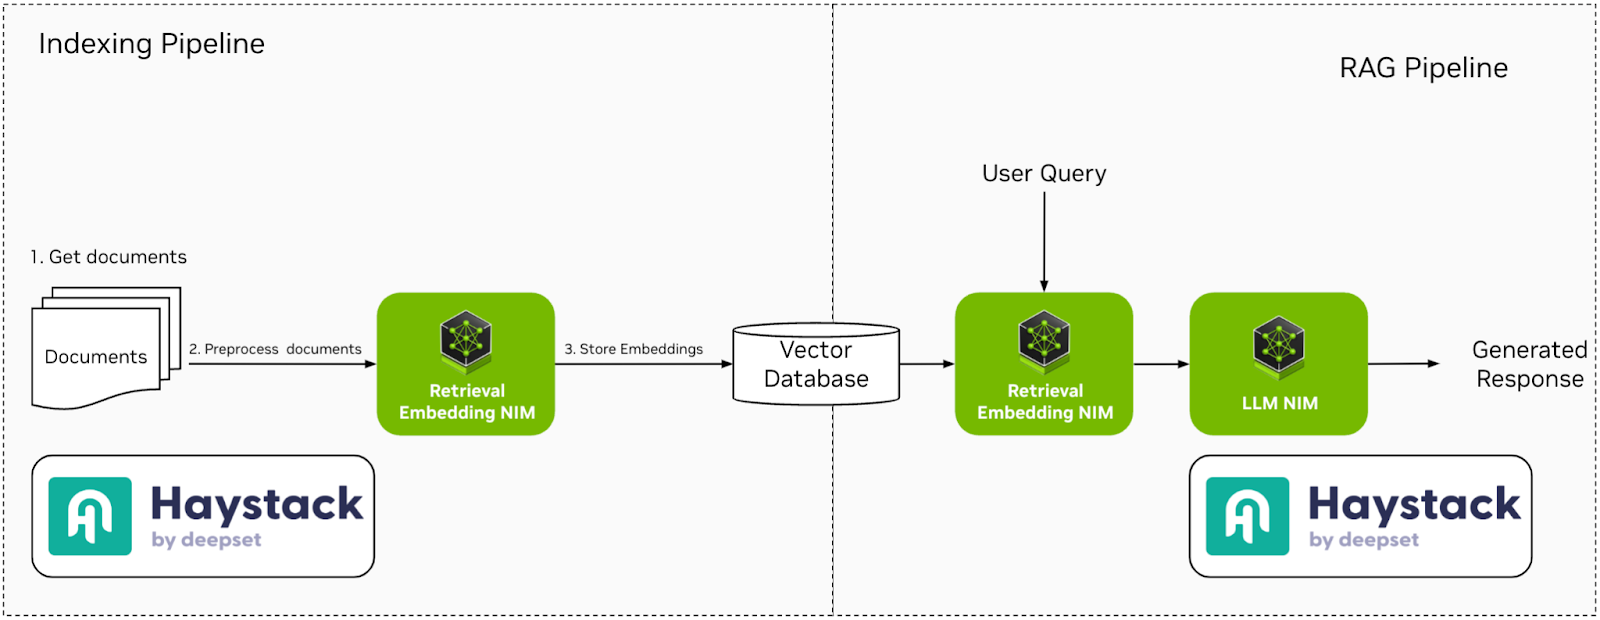
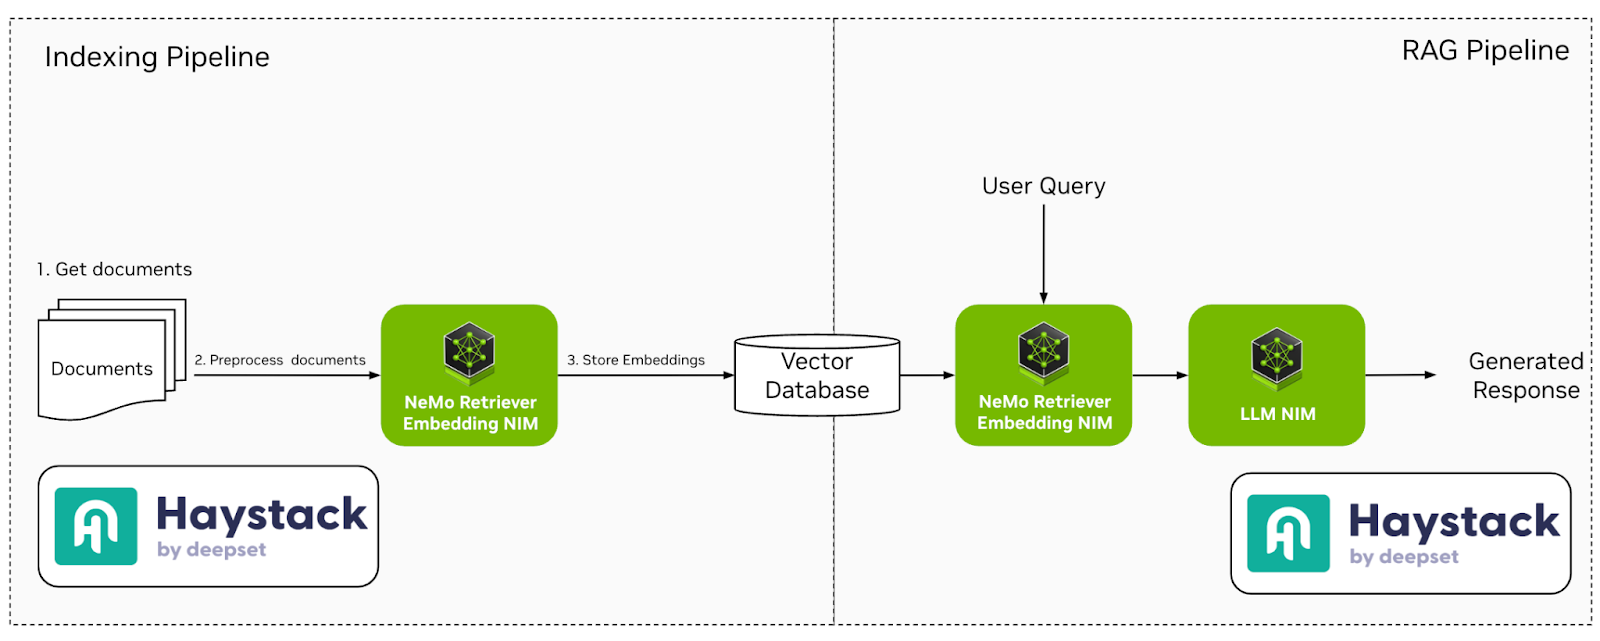
apply Anshul's changes

diff --git a/content/blog/haystack-nvidia-nim-rag-guide/index.md b/content/blog/haystack-nvidia-nim-rag-guide/index.md
@@ -1,10 +1,10 @@
 ---
 layout: single
-title: Building RAG Applications with NVIDIA NIM Inference Microservices and Haystack on K8s 
-description: "See how to self-host and deploy models with Nvidia NIMs alongside Haystack RAG pipelines. Deploy and orchestrate with Kubernetes."
+title: Building RAG Applications with NVIDIA NIM and Haystack on K8s
+description: "How to self-host and orchestrate NVIDIA NIM for Haystack RAG pipelines in Kubernetes."
 images: ["blog/haystack-nvidia-nim-rag-guide/nvidia-image-2.png"]
-featured_image_caption: Diagram of a RAG pipeline connecting NVIDIA retrieval and LLM NIMs with Haystack
-alt_image: Diagram of a RAG pipeline connecting NVIDIA retrieval and LLM NIMs with Haystack
+featured_image_caption: Diagram of a RAG pipeline connecting NVIDIA NeMo Retriever Embedding NIM and LLM NIM with Haystack
+alt_image: Diagram of a RAG pipeline connecting NVIDIA NeMo Retriever Embedding NIM and LLM NIM with Haystack
 toc: True
 date: 2024-06-01
 last_updated:  2024-06-01
@@ -33,18 +33,17 @@ NVIDIA NIM is a collection of containerized microservices designed for optimized
 ## Build a Haystack RAG pipeline with NVIDIA NIM
 
 For RAG pipelines, Haystack provides 3 components that can be connected with NVIDIA NIM: 
-- [NvidiaGenerator](https://docs.haystack.deepset.ai/docs/nvidiagenerator): Text generation with self-deployed LLM NIM.
-- [NvidiaDocumentEmbedder](https://docs.haystack.deepset.ai/docs/nvidiadocumentembedder): Document embedding with self-deployed NVIDIA NeMo
-- [Embedding NIM](https://build.nvidia.com/nvidia/embed-qa-4) to be stored in vector stores.
-- [NvidiaTextEmbedder](https://docs.haystack.deepset.ai/docs/nvidiatextembedder): Query embedding with self-deployed NeMo Retriever embedding NIM.
+- [NvidiaGenerator](https://docs.haystack.deepset.ai/docs/nvidiagenerator): Text generation with LLM NIM.
+- [NvidiaDocumentEmbedder](https://docs.haystack.deepset.ai/docs/nvidiadocumentembedder): Document embedding with [NVIDIA NeMo Retriever Embedding NIM](https://build.nvidia.com/nvidia/embed-qa-4).
+- [NvidiaTextEmbedder](https://docs.haystack.deepset.ai/docs/nvidiatextembedder): Query embedding with  NVIDIA NeMo Retriever Embedding NIM.
 
-![Fig. 1 - Haystack Indexing and RAG pipelines with self-deployed NVIDIA NIM](nvidia-image-2.png#small "_Fig. 1 - Haystack Indexing and RAG pipelines with self-deployed NVIDIA NIM_") 
+![Fig. 1 -  Haystack Indexing and RAG pipelines with self-hosted NVIDIA NIM](nvidia-image-2.png#small "_Fig. 1 - Haystack Indexing and RAG pipelines with self-hosted NVIDIA NIM_") 
 
-For this section, we have provided scripts and instructions for building a RAG pipeline with models hosted by NVIDIA (so you can start even if you do not have access to the `rag-with-nvidia-nims` [GitHub repository](https://github.com/deepset-ai/nvidia-haystack). A [self-hosted notebook](https://colab.research.google.com/github/deepset-ai/haystack-cookbook/blob/main/notebooks/rag-with-nims.ipynb) is provided for the same pipeline using self-hosted NIMs. 
+For this section, we have provided scripts and instructions for building a RAG pipeline with NVIDIA-hosted NIM as part of the [GitHub repository](https://github.com/deepset-ai/nvidia-haystack). We also provide a [Jupyter Notebook](https://colab.research.google.com/github/deepset-ai/haystack-cookbook/blob/main/notebooks/rag-with-nims.ipynb) for building the same RAG pipeline using self-hosted NVIDIA NIM. 
 
 ## Vectorize Documents with Haystack Indexing Pipelines
 
-Our indexing pipeline implementation is available in the [indexing tutorial](https://github.com/deepset-ai/nvidia-haystack/blob/main/indexing.py). Haystack provides several [preprocessing](https://docs.haystack.deepset.ai/docs/preprocessors) components for document cleaning, splitting, [embedders](https://docs.haystack.deepset.ai/docs/converters), as well as [converters](https://docs.haystack.deepset.ai/docs/converters) extracting data from files in different formats. In this tutorial, we will store PDF files in a `QdrantDocumentStore`. `NvidiaDocumentEmbedder` is used to connect with models hosted by NVIDIA accessible [here](https://build.nvidia.com/explore/retrieval). Below is an example of how to initialize the embedder component with the NVIDIA-hosted [`snowflake/arctic-embed-l`](https://build.nvidia.com/snowflake/arctic-embed-l) model.
+Our indexing pipeline implementation is available in the [indexing tutorial](https://github.com/deepset-ai/nvidia-haystack/blob/main/indexing.py). Haystack provides several [preprocessing](https://docs.haystack.deepset.ai/docs/preprocessors) components for document cleaning, splitting, [embedders](https://docs.haystack.deepset.ai/docs/converters), as well as [converters](https://docs.haystack.deepset.ai/docs/converters) extracting data from files in different formats. In this tutorial, we will store PDF files in a `QdrantDocumentStore`. `NvidiaDocumentEmbedder` is used to connect with NVIDIA-hosted NIM accessible [here](https://build.nvidia.com/explore/retrieval). Below is an example of how to initialize the embedder component with the NVIDIA-hosted [`snowflake/arctic-embed-l`](https://build.nvidia.com/snowflake/arctic-embed-l) NIM.
 
 ```python
 from haystack.utils.auth import Secret
@@ -58,7 +57,7 @@ embedder = NvidiaDocumentEmbedder(model="snowflake/arctic-embed-l",
 
 ## Creating the Haystack RAG Pipeline
 
-In our example, we will create a simple question/answering RAG pipeline using both Embedding Retrieval and LLM NIMs. For this pipeline, we use the NvidiaTextEmbedder to embed the query for retrieval, and the NvidiaGenerator to generate a response. An example is shown below for how to instantiate the generator using [`meta/llama3-70b-instruct` as an NVIDIA hosted LLM NIM](https://build.nvidia.com/meta/llama3-70b).
+In our example, we will create a simple question/answering RAG pipeline using both NVIDIA NeMo Retriever Embedding NIM and LLM NIM. For this pipeline, we use the NvidiaTextEmbedder to embed the query for retrieval, and the NvidiaGenerator to generate a response. Example below shows how to instantiate the generator using NVIDIA-hosted [`meta/llama3-70b-instruct`](https://build.nvidia.com/meta/llama3-70b) LLM NIM.
 
 ```python
 generator = NvidiaGenerator(
@@ -120,13 +119,13 @@ rag.connect("prompt", "generator")
 
 ## Indexing Files and Deploying the Haystack RAG Pipeline
 
-[Hayhooks](https://docs.haystack.deepset.ai/docs/hayhooks) allows the deployment of RAG pipelines in a containerized environment. In our example, we have provided [a docker-compose file](https://github.com/deepset-ai/nvidia-haystack/blob/main/docker-compose.yml) to set up both the Qdrant database, and the RAG pipeline. As we are using NVIDIA-hosted models, we need to set the API keys for the listed models on the .env file. The instructions below expect an `NVIDIA_API_KEY` (for `NvidiaGenerator`) and `NVIDIA_EMBEDDINGS_KEY` (for `NvidiaDocumentEmbedder` and `NvidiaTextEmbedder`). 
+[Hayhooks](https://docs.haystack.deepset.ai/docs/hayhooks) allows the deployment of RAG pipelines in a containerized environment. In our example, we have provided a [docker-compose file](https://github.com/deepset-ai/nvidia-haystack/blob/main/docker-compose.yml) to setup both the Qdrant database, and the RAG pipeline. As we are using NVIDIA-hosted NIM, we need to set the API keys for the NIM on the .env file. The instructions below expect `NVIDIA_API_KEY` (for `NvidiaGenerator`) and `NVIDIA_EMBEDDINGS_KEY` (for `NvidiaDocumentEmbedder` and `NvidiaTextEmbedder`). 
 
-Executing `docker-compose up` will launch 3 containers: **qdrant**, **hayhooks** and **qdrant-setup** (which will run our indexing pipeline and stop). The Qdrant database will be deployed on the localhost and exposed at port 6333. The Qdrant dashboard allows users to inspect the vectorized documents at **localhost:6333/dashboard**.
+Executing `docker-compose up` will launch `3` containers: **qdrant**, **hayhooks** and **qdrant-setup** (which will run our indexing pipeline and stop). The Qdrant database will be deployed on the localhost and exposed at port `6333`. The Qdrant dashboard allows users to inspect the vectorized documents at [localhost:6333/dashboard](localhost:6333/dashboard).
 
 ### Serializing Pipelines
 
-Haystack pipelines defined in Python can be serialized to YAML by calling **dump()** on the pipeline object, as shown in [our RAG pipeline tutorial](https://github.com/deepset-ai/nvidia-haystack/blob/77cc316193e718de51b8a56e756749604b8032e9/rag.py#L44C1-L45C16). The [YAML](https://github.com/deepset-ai/nvidia-haystack/blob/main/rag.yaml) definition is the following:
+Haystack pipelines defined in Python can be serialized to YAML by calling `dump()` on the pipeline object, as shown in our [RAG pipeline tutorial](https://github.com/deepset-ai/nvidia-haystack/blob/77cc316193e718de51b8a56e756749604b8032e9/rag.py#L44C1-L45C16). The [YAML](https://github.com/deepset-ai/nvidia-haystack/blob/main/rag.yaml) definition is the following:
 
 ```yaml
 components:
@@ -166,7 +165,7 @@ metadata: {}
 
 ### Deploy the RAG Pipeline
 
-To deploy the RAG pipeline, execute `hayhooks deploy rag.yaml` which will expose the pipeline on localhost:1416/rag by default. You can then visit http://localhost:1416/docs and try out your pipeline. 
+To deploy the RAG pipeline, execute `hayhooks deploy rag.yaml` which will expose the pipeline on [http://localhost:1416/rag](http://localhost:1416/rag) by default. You can then visit [http://localhost:1416/docs](http://localhost:1416/docs) for the API docs and try out the pipeline. 
 
 ![](nvidia-image-3.png) 
 
@@ -174,36 +173,34 @@ To deploy the RAG pipeline, execute `hayhooks deploy rag.yaml` which will expose
 
 For production, Haystack provides Helm charts and [instructions](https://docs.haystack.deepset.ai/docs/kubernetes) to create services running Hayhooks with a container orchestrator like Kubernetes. 
 
-In the next sections, we will show how to self deploy NVIDIA NIM on a Kubernetes cluster, monitor the application using the NIM microservice’s exposed metrics and autoscale the application according to predefined metrics. Finally, we will provide instructions on how to use the self-deployed NIM in the Haystack RAG pipeline. 
+In the next sections, we will show how to self deploy, monitor and autoscale the NVIDIA NIM on a Kubernetes cluster. Finally, we will provide instructions on how to use the self-hosted NIM in the Haystack RAG pipeline.
 
 ## Deployment of NVIDIA NIM on a Kubernetes Cluster
 
 ### Kubernetes Cluster Environment
 
-In this tutorial, the setup environment consists of a DGX H100 with 8 H100 GPUs each having 80GB of memory as GPU host and with Ubuntu as the operating system. Docker is used as the container engine. Kubernetes is deployed on it using [Minikube](https://minikube.sigs.k8s.io/). To enable GPU utilization in Kubernetes, we install essential NVIDIA software components using the [GPU Operator](https://docs.nvidia.com/datacenter/cloud-native/gpu-operator/latest/getting-started.html).
+In this tutorial, the setup environment consists of a DGX H100 with 8 H100 GPUs each having 80GB of memory as host and with Ubuntu as the operating system. Docker is used as the container runtime. Kubernetes is deployed on it using [Minikube](https://minikube.sigs.k8s.io/). To enable GPU utilization in Kubernetes, we install essential NVIDIA software components using the [GPU Operator](https://docs.nvidia.com/datacenter/cloud-native/gpu-operator/latest/getting-started.html).
 
 ### NVIDIA NIM Deployment
 
-As part of this setup, we deploy two NIMs into the Kubernetes cluster using Helm charts:
+As part of this setup, we deploy following NVIDIA NIM into the Kubernetes cluster using Helm charts:
 - The LLM NIM, which uses the model [`llama3-8b-instruct`](https://build.nvidia.com/meta/llama3-8b)
-- The NeMo Retriever Embedding NIM, which uses the model [`NV-Embed-QA`](https://build.nvidia.com/nvidia/embed-qa-4)
+- The NVIDIA NeMo Retriever Embedding NIM, which uses the model [`NV-Embed-QA`](https://build.nvidia.com/nvidia/embed-qa-4)
 
-The Helm chart for the LLM NIM is located in [GitHub](https://github.com/NVIDIA/nim-deploy) whereas the embedding NIM is located in the NGC private registry. For the embedding NIM, you would need EA access.  Figure 3 illustrates the deployment of NIM on a Kubernetes cluster running on a DGX H100. The GPU Operator components are deployed via its Helm chart and are part of the GPU Operator stack. Prometheus and Grafana are deployed via Helm charts for monitoring the Kubernetes cluster and the NIM.
+The Helm chart for the LLM NIM is located in [GitHub](https://github.com/NVIDIA/nim-deploy) whereas for the NVIDIA NeMo Retriever Embedding NIM it is located in the NGC private registry and at the moment need EA access [apply for Early Access](https://developer.nvidia.com/nemo-microservices).  Figure 3 illustrates the deployment of NIM on a Kubernetes cluster running on a DGX H100. The GPU Operator components are deployed via its Helm chart and are part of the GPU Operator stack. Prometheus and Grafana are deployed via Helm charts for monitoring the Kubernetes cluster and the NIM.
 
-![Figure 3 - NIM and  vector database deployment on a Kubernetes cluster ](nvidia-image-5.png#small "_Figure 3 - NIM and  vector database deployment on a Kubernetes cluster_") 
+![Figure 3 - NVIDIA NIM and  other components deployment on a Kubernetes cluster ](nvidia-image-5.png#small "_Figure 3 - NVIDIA NIM and  other components deployment on a Kubernetes cluster_") 
 
-The LLM NIM Helm chart contains the LLM NIM container, which runs within a pod and references the model on the host via [Persistent Volume](https://kubernetes.io/docs/concepts/storage/persistent-volumes/) (PV) and [Persistent Volume Claim](https://kubernetes.io/docs/concepts/storage/persistent-volumes/#persistentvolumeclaims) (PVC). The LLM NIM pods are autoscaled using the [Horizontal Pod Autoscaler](https://kubernetes.io/docs/tasks/run-application/horizontal-pod-autoscale/) (HPA) based on custom metrics and are exposed via Kubernetes [ClusterIP](https://kubernetes.io/docs/concepts/services-networking/service/#type-clusterip) service. To access the LLM NIM, we deploy an [ingress](https://kubernetes.io/docs/concepts/services-networking/ingress/) and expose it at the `/llm` endpoint.
+The LLM NIM Helm chart contains the LLM NIM container, which runs within a pod and references the model via [Persistent Volume](https://kubernetes.io/docs/concepts/storage/persistent-volumes/) (PV) and [Persistent Volume Claim](https://kubernetes.io/docs/concepts/storage/persistent-volumes/#persistentvolumeclaims) (PVC). The LLM NIM pods are autoscaled using the [Horizontal Pod Autoscaler](https://kubernetes.io/docs/tasks/run-application/horizontal-pod-autoscale/) (HPA) based on custom metrics and are exposed via Kubernetes [ClusterIP](https://kubernetes.io/docs/concepts/services-networking/service/#type-clusterip) service. To access the LLM NIM, we deploy an [ingress](https://kubernetes.io/docs/concepts/services-networking/ingress/) and expose it at the `/llm` endpoint.
 
-Similarly, the NeMo Retriever Embedding microservice Helm chart includes the Retrieval Embedding NIM container, which runs within a pod and references the model on the host via Persistent Volume and Persistent Volume Claim. The Retrieval Embedding NIM pods are also autoscaled via HPA and are exposed via Kubernetes ClusterIP service. To access the embedding NIM, we deploy an ingress and expose it at the `/embedding` endpoint.
+Similarly, the NeMo Retriever Embedding NIM Helm chart includes the Retriever Embedding NIM container, which runs within a pod and references the model on the host via PV and PVC. The NeMo Retriever Embedding NIM pods are also autoscaled via HPA and are exposed via Kubernetes ClusterIP service. To access the NeMo Retriever Embedding NIM, we deploy an ingress and expose it at the `/embedding` endpoint.
 
-Users and other applications can access the exposed NIMs via the ingress.
+Users and other applications can access the exposed NVIDIA NIM via the ingress.
 The vector database Qdrant is deployed using this [helm chart](https://qdrant.tech/documentation/guides/installation/#kubernetes).
 
 Now, let's take a closer look at the deployment process for each NIM: 
 
 ### LLM NIM deployment
-
-Let’s create a Kubernetes pod to run the NIM serving the LLM model. 
 
 1. Create the namespace, if it is not already created yet:
 
@@ -229,8 +226,8 @@ kubectl create secret -n nim-llm generic ngc-api \
 
 ```yaml
 image:
-   repository: "nvcr.io/nvidia/nim/nim-llm/meta-llama3-8b-instruct" # container location
-    tag: 24.05 # NIM version you want to deploy
+   repository: "nvcr.io/nvidia/nim/nim-llm/meta-llama3-8b-instruct" # container image location
+   tag: 24.05 # LLM NIM version you want to deploy
 
 model:
   ngcAPISecret: ngc-api  # name of a secret in the cluster that includes a key named NGC_CLI_API_KEY and is an NGC API key
@@ -246,7 +243,7 @@ imagePullSecrets:
   - name: nvcrimagepullsecret # secret created to pull nvcr.io image
 ```
 
-5. We assume that the helm chart for the LLM is located here: *"./nims/helm/nim-llm/".* You can change the command accordingly depending on where the helm chart is located.  Deploy the LLM NIM by running the following command:
+5. We assume that the helm chart for the LLM is located here: `./nims/helm/nim-llm/`. You can change the command accordingly depending on where the helm chart is located.  Deploy the LLM NIM by running the following command:
 
 ```helm -n nim-llm install nim-llm -f ./nims/helm/nim-llm/ nim-llm-values.yaml```
 
@@ -263,7 +260,7 @@ NAME        READY   STATUS    RESTARTS   AGE
 nim-llm-0   1/1     Running   0          8m21s
 ```
 
-7. Create a file `ingress-nim-llm.yaml` with the below content to create the ingress for the LLM NIM. Make sure to change the host (here nims.example.com) with your domain name. Make sure you have installed an [ingress controller](https://kubernetes.io/docs/concepts/services-networking/ingress-controllers/). 
+7. Install an [ingress controller](https://kubernetes.io/docs/concepts/services-networking/ingress-controllers/), if it has not been installed already. Then, create a file `ingress-nim-llm.yaml` with the below content to create the ingress for the LLM NIM. Make sure to change the host (here nims.example.com) with your fully qualified domain name. 
 
 ```yaml
 apiVersion: networking.k8s.io/v1
@@ -326,19 +323,19 @@ curl -X 'POST' 'http://nims.example.com/llm/v1/chat/completions' \
 
 Now, we have the LLM NIM up and running.
 
-### Retrieval Embedding NIM deployment 
+### NeMo Retriever Embedding NIM deployment 
 
-The deployment of the Retrieval embedding NIM is similar to the LLM NIM. 
+The deployment of the NeMo Retriever Embedding NIM is similar to the LLM NIM. 
 
-1. Follow steps 1 - 3 as LLM NIM deployment but replace namespace with nim-embedding in the commands.
+1. Follow steps 1 - 3 as LLM NIM deployment but replace namespace with `nim-embedding` in the commands.
 
-2. Create nim-embedding-values.yaml file with the below content. Adjust following: 
-    - `ngcModel.org`: The ID of the org where model is located in NGC
-    -  `ngcModel.path`: Replace `<org-id>` with the ID of the organization and `<team-name>` with the team name under the organization where the model is located.
+2. Create `nim-embedding-values.yaml` file with the below content. Adjust following: 
+    - `ngcModel.org`: The ID of the organization where the model is located in NGC.
+    - `ngcModel.path`: Replace `<org-id>` with the ID of the organization and `<team-name>` with the team name under the organization where the model is located.
     - `image.repository` and `image.tag` values depending on your environment.
 
 ```yaml
-    ngcModel:
+ngcModel:
   directoryName: nv-embed-qa_v4
   org: <org-id>
   path: <org-id>/<team-name>/nv-embed-qa:4
@@ -367,7 +364,7 @@ service:
   port: 8080
 ``` 
 
-3. We assume that the helm chart for the embedding NIM is located here: `"./nims/helm/nim-embedding/"`. You can change the command accordingly depending on where the helm chart is located. Deploy the Embedding NIM by running the following command
+3. We assume that the helm chart for the NeMo Retriever Embedding NIM is located here: `./nims/helm/nim-embedding/`. You can change the command accordingly depending on where the helm chart is located. Deploy the NeMo Retriever Embedding NIM by running the following command
 
 ```
 cd ./nims/helm/nim-embedding/ && helm dependency build
@@ -388,9 +385,9 @@ NAME                                     READY   STATUS    RESTARTS   AGE
 nim-embedding-nemo-embedding-ms-d58c..   1/1     Running   0          87m
 ```
 
-5. Create a file `ingress-nim-embedding.yaml` similar to the LLM NIM ingress with service name `nim-embedding-nemo-embedding-ms`, port 8080 and path as `/embedding(/|$)(.*)`. Afterwards, deploy the ingress. 
+5. Create a file `ingress-nim-embedding.yaml` similar to the LLM NIM ingress with service name `nim-embedding-nemo-embedding-ms`, port `8080`, and path `/embedding(/|$)(.*)`. Afterwards, deploy the ingress. 
 
-6. Access the exposed service by making a curl request for testing (replace in below the `nims.example.com`)
+6. Access the exposed service by making a curl request for testing (replace in below the `nims.example.com` with your fully qualified domain name).
 
 ```bash
 curl 'GET' \
@@ -404,13 +401,13 @@ curl 'GET' \
 {"object":"list","data":[{"id":"NV-Embed-QA","created":0,"object":"model","owned_by":"organization-owner"}]}
 ```
 
-Now, we have the Embedding NIM up and running. 
+Now, we have the NeMo Retriever Embedding NIM up and running. 
 
-Once this setup procedure is completed, it provides service endpoints of NIMs provided LLMs and the retrieval embedding models.
+Once the above procedure is completed, you will have API endpoints of LLM NIM and  NeMo Retriever Embedding NIM.
 
 ## Operational Considerations
 
-Monitoring and autoscaling are essential for deployed NIMs to ensure efficient, effective, and reliable operation. Monitoring tracks performance metrics, detects errors, and optimizes resource utilization, while autoscaling dynamically adjusts resources to match changing workloads, ensuring the NIMs can handle sudden spikes or dips in demand. This enables NIMs to provide accurate and timely responses, even under heavy loads, while optimizing costs and maintaining high availability.  In this section, we will delve into details of deploying monitoring and enabling autoscaling for NIMs.
+Monitoring and autoscaling are essential for deployed NVIDIA NIM to ensure efficient, effective, and reliable operation. Monitoring tracks performance metrics, detects errors, and optimizes resource utilization, while autoscaling dynamically adjusts resources to match changing workloads, ensuring the NVIDIA NIM can handle sudden spikes or dips in demand. This enables NVIDIA NIM to provide accurate and timely responses, even under heavy loads, while optimizing costs and maintaining high availability. In this section, we will delve into details of deploying monitoring and enabling autoscaling for NVIDIA NIM.
 
 ### Monitoring
 
@@ -418,10 +415,10 @@ NVIDIA NIM metrics are collected with the open-source tool [Prometheus](https://
 
 #### Visualizing NIM Metrics
 
-By default, metrics are exposed at `http://localhost:8000/metrics` within the NIM. All the metrics are listed here https://docs.nvidia.com/nim/large-language-models/latest/observability.html. NIM metrics are only available from the endpoint. Using a service monitor they can be published to Prometheus and be viewed in the Grafana Dashboard. The [Prometheus ServiceMonitor](https://github.com/prometheus-operator/prometheus-operator/blob/main/Documentation/user-guides/running-exporters.md#the-goal-of-servicemonitors) is used to define applications to scrape metrics from.
+By default, NIM metrics are exposed at [http://localhost:8000/metrics](http://localhost:8000/metrics) for the NIM container. All the exposed metrics are listed [here](https://docs.nvidia.com/nim/large-language-models/latest/observability.html). Using a Prometheus ServiceMonitor they can be published to Prometheus and be viewed in the Grafana. The [Prometheus ServiceMonitor](https://github.com/prometheus-operator/prometheus-operator/blob/main/Documentation/user-guides/running-exporters.md#the-goal-of-servicemonitors) is used to define application to scrape metrics from within Kubernetes cluster.
 
 
-1. Create a file `service-monitor-nim-llm.yaml` with the below content. We currently only configure it to scrape metrics from LLM NIM but can be extended to other NIMs as well. 
+1. Create a file `service-monitor-nim-llm.yaml` with the below content. We currently only configure it to scrape metrics from LLM NIM but can be extended to other NVIDIA NIM as well. 
 
 ```yaml
 apiVersion: monitoring.coreos.com/v1
@@ -442,36 +439,36 @@ spec:
       app.kubernetes.io/name: nim-llm
 ```
 
-2. Create service Monitor
+2. Create a Prometheus ServiceMonitor using the below command: 
 
 ```
 kubectl apply -f service-monitor-nim-llm.yaml
 ```
 
-In the prometheus UI under Status -> Targets, you can see the below service monitor once it’s deployed.
+In the prometheus UI under `Status -> Targets`, you will see the below ServiceMonitor once it’s deployed.
 
 ![](nvidia-image-6.png) 
 
 
-3. Let’s check some inference metrics on the Prometheus UI. Figure showing the stacked graph for `request_success_total` metric.
+3. Let’s check some inference metrics on the Prometheus UI. Figure 4 shows the stacked graph for `request_success_total` NIM metric.
 
 ![Figure 4 - Prometheus UI showing the plot of request_success_total metric indicating number of finished requests. ](nvidia-image-7.png#small "_Figure 4 - Prometheus UI showing the plot of request_success_total metric indicating number of finished requests._") 
 
 
-### Autoscaling NIMs
+### Autoscaling NVIDIA NIM
 
-In this tutorial, we use the [Kubernetes Horizontal Pod Autoscaler](https://kubernetes.io/docs/tasks/run-application/horizontal-pod-autoscale/) - HPA to adjust the scaling of the NIM pods. We've devised custom metrics to monitor the average GPU usage of each NIM and are used by the Horizontal Pod Autoscaler (HPA) to dynamically adjust the number of NIM pods. See the metric definition below:
+In this tutorial, we use the [Kubernetes Horizontal Pod Autoscaler](https://kubernetes.io/docs/tasks/run-application/horizontal-pod-autoscale/) - HPA to adjust the scaling of the NIM pods. We have defined custom metrics to monitor the average GPU usage of each NIM and used by the Horizontal Pod Autoscaler (HPA) to dynamically adjust the number of NIM pods. See the metric definition below:
 
 | Metrics    | Expressions |
 | -------- | ------- |
-| **nim_llm_gpu_avg**  | avg by (kubernetes_node, pod, namespace, gpu) (DCGM_FI_DEV_GPU_UTIL{pod=~"nim-llm-.*"})    |
-| **nim_embedding_gpu_avg** | avg by (kubernetes_node, pod, namespace, gpu)  (DCGM_FI_DEV_GPU_UTIL{pod=~"nim-emedding-.*"})     |
+| **nim_llm_gpu_avg**  | `avg by (kubernetes_node, pod, namespace, gpu) (DCGM_FI_DEV_GPU_UTIL{pod=~"nim-llm-.*"})`    |
+| **nim_embedding_gpu_avg** | `avg by (kubernetes_node, pod, namespace, gpu)  (DCGM_FI_DEV_GPU_UTIL{pod=~"nim-emedding-.*"})`     |
 
-These metrics are example metrics and one should adjust them based on your environment. 
+These metrics are example metrics and one should adjust them based on their environment. 
 
 Let’s deploy the HPA. 
 
-1. Create a file with the name `prometheus_rule_nims.yaml` with the content below to create  the prometheus rules for the above custom metric. Adjust the labels (app, other prometheus labels) in it according to the current deployed prometheus instance. 
+1. Create a file with the name `prometheus_rule_nims.yaml` with the below content to create  the prometheus rules for the above custom metric. Adjust the labels (app, other prometheus labels) according to the current deployed prometheus instance. 
 
 ```yaml
 apiVersion: monitoring.coreos.com/v1
@@ -504,17 +501,17 @@ spec:
 kubectl apply -f prometheus_rule_nims.yaml
 ```
 
-3. In prometheus UI, under Status -> Rules, you can see the above two created rules as shown in Figure 5.
+3. In prometheus UI, under `Status -> Rules`, you can see the above two created rules as shown in Figure 5.
 
-![Figure 5 - Prometheus rules tab showing the created custom rules to record GPU usage by NIMs. ](nvidia-image-8.png#small "_Figure 5 - Prometheus rules tab showing the created custom rules to record GPU usage by NIMs._") 
+![Figure 5 - Prometheus rules tab showing the created custom rules to record GPU usage by NVIDIA NIM. ](nvidia-image-8.png#small "_Figure 5 - Prometheus rules tab showing the created custom rules to record GPU usage by NVIDIA NIM._") 
 
-4. Install prometheus-adapter to query the custom metrics based on the custom recording rules created above and register them to the custom metrics API for HPA to fetch. Replace in belo command `<prometheus-service-name>` with the name of the prometheus service in Kubernetes.
+4. Install [prometheus-adapter](https://github.com/kubernetes-sigs/prometheus-adapter) to query the custom metrics based on the custom recording rules created above and register them to the custom metrics API for HPA to fetch. Replace in below command `<prometheus-service-name>` with the name of the prometheus service in Kubernetes.
 
 ```
 helm upgrade --install prometheus-adapter prometheus-community/prometheus-adapter --set prometheus.url="http://<prometheus-service-name>.prometheus.svc.cluster.local"
 ```
 
-5. Query the custom metrics API to see if the metrics have been registered in the custom metrics API using below command: 
+5. Query the custom metrics API to see if the metrics have been registered using the below command: 
 
 ```
 kubectl get --raw /apis/custom.metrics.k8s.io/v1beta1 | jq -r . | grep llms
@@ -529,9 +526,10 @@ kubectl get --raw /apis/custom.metrics.k8s.io/v1beta1 | jq -r . | grep llms
 "name": "namespaces/nim_llm_gpu_avg",
 ```
 
-6. A separate HPA definition is created for the two NVIDIA NIM types. Within this definition, we specify the minimum and maximum number of replicas, the metric to monitor, and the target value for that metric. Below is the definition for the LLM NIM HPA and you can create the similar for the embedding NIM using nim_embedding_gpu_avg metric.
+6. A separate HPA definition is created for the two NVIDIA NIM. Within this definition, we specify the minimum and maximum number of replicas, the metric to monitor, and the target value for that metric. Below is the definition for the LLM NIM HPA and you can create the similar for the NeMo Retriever Embedding NIM using `nim_embedding_gpu_avg` metric.
 
-NIM-LLM HPA file:
+LLM NIM HPA file:
+
 ```yaml
 apiVersion: autoscaling/v2
 kind: HorizontalPodAutoscaler
@@ -585,13 +583,13 @@ nim-llm-1   1/1     Running   0          3m30s
 
 Also, Figure 6 shows the prometheus graph showing the scaling of LLM NIM. 
 
-![Figure 6 - Prometheus graph showing the scaling of LLM NIMs. ](nvidia-image-9.png#small "_Figure 6 - Prometheus graph showing the scaling of LLM NIMs._") 
+![Figure 6 - Prometheus graph showing the scaling of LLM NIM. ](nvidia-image-9.png#small "_Figure 6 - Prometheus graph showing the scaling of LLM NIM._") 
 
-We have now deployed NIMs in a scalable fashion. We can now use these self-hosted NIMs and configure them in the RAG pipeline. The next section provides the details for the same. 
+We have now deployed NVIDIA NIM in a scalable fashion. We can now use the self-hosted NVIDIA NIM in the RAG pipeline. The next section provides the details for the same. 
 
-## Use Self-hosted NVIDIA NIMs in the RAG Pipeline
+## Use Self-hosted NVIDIA NIM in the RAG Pipeline
 
-This section provides instructions to use previously self-hosted NIMs deployed on a Kubernetes cluster for NvidiaTextEmbedder, NvidiaDocumentEmbedder and NvidiaGenerator in the Haystack RAG pipeline, replacing  `<self-hosted-emedding-nim-url>` with the endpoint of the embedding NIM and `<self-hosted-llm-nim-url>` with the LLM NIM. The provided [notebook](https://colab.research.google.com/github/deepset-ai/haystack-cookbook/blob/main/notebooks/rag-with-nims.ipynb) in the repository has examples of how to use the self-deployed  NIMs. 
+This section provides instructions to use previously deployed self-hosted NVIDIA NIM on a Kubernetes cluster for `NvidiaTextEmbedder`, `NvidiaDocumentEmbedder` and `NvidiaGenerator` in the Haystack RAG pipeline, replacing  `<self-hosted-emedding-nim-url>` with the endpoint of the NeMo Retriever Embedding NIM and `<self-hosted-llm-nim-url>` with the LLM NIM. The provided [notebook](https://colab.research.google.com/github/deepset-ai/haystack-cookbook/blob/main/notebooks/rag-with-nims.ipynb) in the repository has examples of how to use the self-hosted  NVIDIA NIM. 
 
 *NvidiaDocumentEmbedder*:
 ```python
@@ -603,7 +601,7 @@ embedder = NvidiaDocumentEmbedder(
 
 *NvidiaTextEmbedder*: 
 ```python
-# initialize NvidiaTextEmbedder with the self-hosted Embedding NIM URL
+# initialize NvidiaTextEmbedder with the self-hosted NeMo Retriever Embedding NIM URL
 embedder = NvidiaTextEmbedder(
     model=embedding_nim_model,
     api_url="http://<self-hosted-embedding-nim-url>/v1"
@@ -627,7 +625,6 @@ generator = NvidiaGenerator(
 
 ## Summary
 
-In this blog, we provide a comprehensive walkthrough for building robust and scalable RAG applications using Haystack and NVIDIA NIM. We cover both NVIDIA-hosted and self-hosted NIM deployment scenarios. Our step-by-step instructions detail how to deploy NIMs on a Kubernetes cluster, monitor their performance, and scale them as needed.
+In this blog, we provide a comprehensive walkthrough for building robust and scalable RAG applications using Haystack and NVIDIA NIM. We cover both NVIDIA-hosted and self-hosted NIM deployment scenarios. Our step-by-step instructions detail how to deploy NVIDIA NIM on a Kubernetes cluster, monitor their performance, and scale them as needed.
 
-By leveraging proven deployment patterns, our architecture ensures a responsive user experience and predictable query times, even in the face of high or bursty user queries and document indexing workloads. Moreover, our deployment recipe is flexible, allowing for easy implementation in cloud, on-premise, or air-gapped environments. This guide is a valuable resource for anyone looking to build reliable and performant RAG applications at scale.
-
+By leveraging proven deployment patterns, our architecture ensures a responsive user experience and predictable query times, even in the face of high or bursty user queries and document indexing workloads. Moreover, our deployment recipe is flexible, allowing for easy implementation in cloud, on-premise, or air-gapped environments. With this guide, we aim to provide a resource for anyone looking to build reliable and performant RAG applications at scale.
